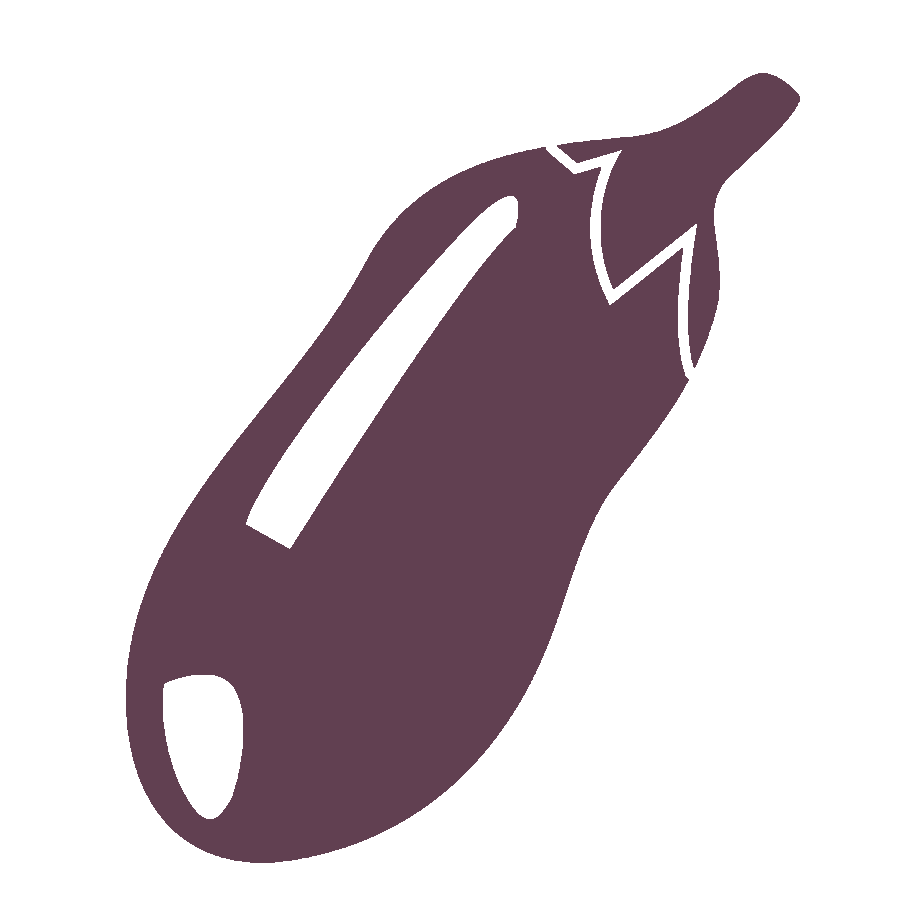
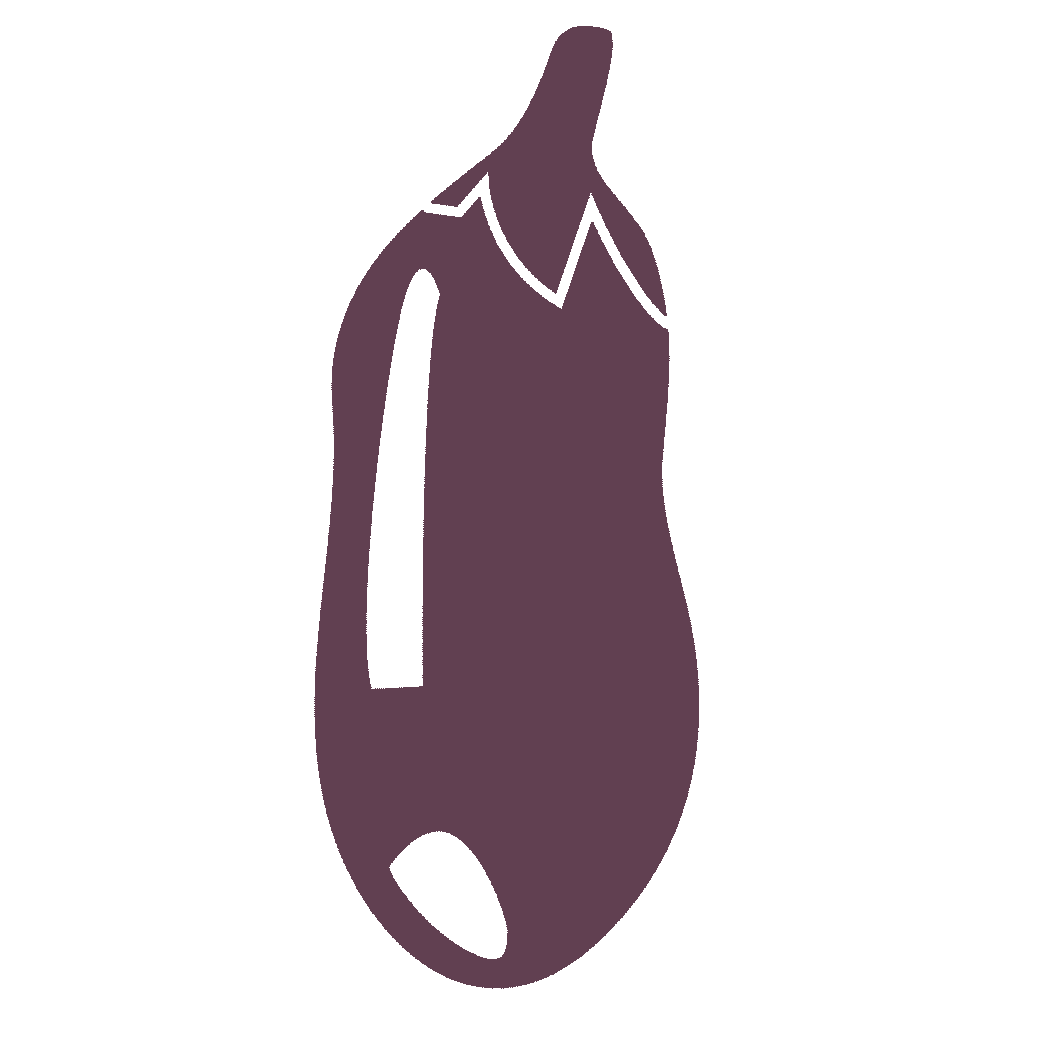
Improve eggplant

Changed region(s): [[0.1228, 0.0, 0.8904, 0.9518]]

diff --git a/assets/scss/app.scss b/assets/scss/app.scss
@@ -42,11 +42,12 @@ button {
     margin-top: 1em;
 
     svg {
-        height: 3em;
-        width: 3em;
+        height: 2em;
+        width: 2em;
         fill: $base-accent-color;
         stroke: #fff;
-        vertical-align: -1em;
+        vertical-align: -.5em;
+        transform: rotate(-32.5deg)
     }
 }
 
